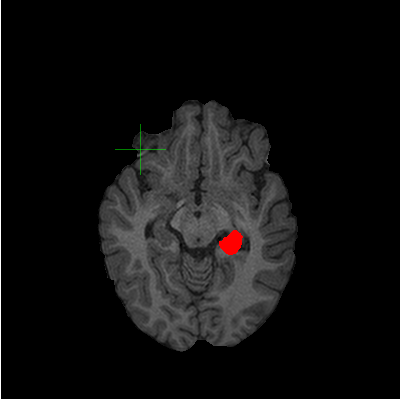
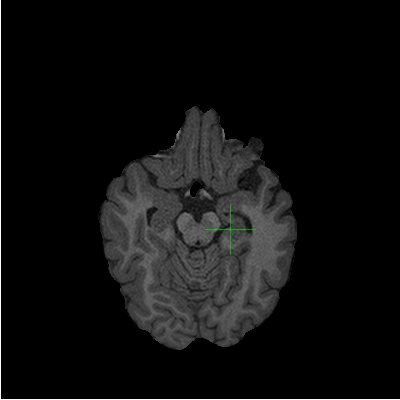
v 0.5 - fslroi, dimswap, decompress, png_gen

Changed region(s): [[0.24, 0.24, 0.75, 0.9], [0.69, 0.69, 0.72, 0.75]]

diff --git a/fslutils.rb b/fslutils.rb
@@ -1,5 +1,11 @@
 #!/usr/bin/env ruby
 
+# Requirements
+require "nifti"
+require "hoe"
+require "inline"
+require 'png'
+
 # Bring OptionParser into the namespace
 require 'optparse'
 options = {}
@@ -20,31 +26,171 @@ puts options.inspect
 
 coord = `fslstats -t #{options[:stats]} -C`.split
 
-basename_brain = File.basename(options[:brain], '.nii.gz')
-basename_stats = File.basename(options[:stats], '.nii.gz')
-dirname = File.dirname(options[:brain])
+
 lh = {}
 rh = {}
 axis = ["x", "y", "z"]
 
 (0..2).each do |i|
-  lh[axis[i]] = coord[i]
+  lh[axis[i]] = coord[i].to_i.round
 end
 
 (3..5).each do |i|
-  rh[axis[i-3]] = coord[i]
+  rh[axis[i-3]] = coord[i].to_i.round
 end
 
-`fslroi #{options[:brain]} #{dirname}/#{basename_brain}_lh_ax 0 -1 0 -1 #{lh['z']} 1`
-`fslroi #{options[:stats]} #{dirname}/#{basename_stats}_lh_ax 0 -1 0 -1 #{lh['z']} 1`
-`fslroi #{options[:brain]} #{dirname}/#{basename_brain}_lh_sg #{lh['x']} 1 0 -1 0 -1`
-`fslroi #{options[:stats]} #{dirname}/#{basename_stats}_lh_sg #{lh['x']} 1 0 -1 0 -1`
-`fslroi #{options[:brain]} #{dirname}/#{basename_brain}_lh_cor 0 -1 #{lh['y']} 1 0 -1`
-`fslroi #{options[:stats]} #{dirname}/#{basename_stats}_lh_cor 0 -1 #{lh['y']} 1 0 -1`
+puts lh.inspect
 
+def fsl_roi(file, structure, x, y, z)
+  basename = File.basename(file, '.nii.gz')
+  dirname = File.dirname(file)
+  filenames = {}
+  filenames[:ax] = fn(dirname, basename, structure, 'axial')
+  filenames[:sag] = fn(dirname, basename, structure, 'sag')
+  filenames[:cor] = fn(dirname, basename, structure, 'cor')
+  `fslroi #{file} #{filenames[:sag]} #{x} 1 0 -1 0 -1`
+  `fslswapdim #{filenames[:sag]} y z x #{filenames[:sag]}`
+  
+  `fslroi #{file} #{filenames[:cor]} 0 -1 #{y} 1 0 -1`
+  `fslswapdim #{filenames[:cor]} x z y #{filenames[:cor]}`
+  
+  `fslroi #{file} #{filenames[:ax]} 0 -1 0 -1 #{z} 1`
+  return filenames
+end
 
+def fn(dirname, basename, structure, orientation)
+  file_name = dirname+'/'+basename+'_'+structure+'_'+orientation+'.nii.gz'
+  return file_name
+end
+
+filenames_brain_lh = fsl_roi(options[:brain], 'lh', lh['x'], lh['y'], lh['z'])
+filenames_stats_lh = fsl_roi(options[:stats], 'lh', lh['x'], lh['y'], lh['z'])
 
 
 #cmd = `du -sh #{brain_file}`
 #system(cmd)
 
+#-----------From nifti_tests------------------
+CursorColor = PNG::Color::Green
+SegColor = PNG::Color::Red
+
+# Get indices from nifti files
+class NArray
+  # returns all the indices to access the values of the NArray.  if start == 1,
+  # then the first dimension (row) values are not returned, if start == 2,
+  # then the first two dimensions are skipped.
+  #
+  # if a block is provided, the indices are yielded one at a time
+  # [obviously, this could be made into a fast while loop instead of
+  # recursive ... someone have at it]
+  def indices(start=0, ar_of_indices=[], final=[], level=shape.size-1, &block)
+    if level >= 0
+      (1...(shape[level])).each do |s|
+        new_indices = ar_of_indices.dup
+        new_indices.unshift(s)
+        if (new_indices.size == (shape.size - start))
+          block.call(new_indices)
+          final << new_indices 
+        end
+        indices(start, new_indices, final, level-1, &block)
+      end
+    end
+    final
+  end
+end
+
+def read_file(orientation,layer,filepath)
+  h = {"orientation" => orientation, "data" => {"brain" => {},"stats" => {} }}
+  nobj = NIFTI::NObject.new(filepath, :narray => true)
+  # Get image dimensions
+      width = nobj.header["dim"][1]
+      height = nobj.header["dim"][2] 
+  # Get image
+  nobj_img = nobj.image  
+  # Fill hash
+  h["data"][layer]["image_data"] = nobj_img
+  h["data"][layer]["dims"] = [width,height]
+  return h
+end
+
+def create_canvas(hash)
+  width = hash["data"]["brain"]["dims"][0]
+  height = hash["data"]["brain"]["dims"][1]
+  # Create canvas
+  canvas = PNG::Canvas.new(width, height)
+end
+
+def fill_canvas(brain_hash,stats_hash,canvas)
+  # Load brain pixel intensities to canvas
+  brainimg = brain_hash["data"]["brain"]["image_data"]
+  statsimg = stats_hash["data"]["stats"]["image_data"]
+  brainimg.indices do |n,m|
+    val=(brainimg[n,m])
+    canvas[n,m] = PNG::Color.new(val,val,val)
+  end
+  statsimg.indices do |n,m|
+    val=(statsimg[n,m])
+    canvas[n,m] = SegColor if val != 0
+  end
+  return canvas
+end
+
+def fill_crosshair(center=[200,200],size=50,canvas)
+  arm = (size/2).floor.to_i
+  xstart = center[0]-arm
+  xend = center[0]+arm
+  ystart = center[1]-arm
+  yend = center[1]+arm
+  canvas.line xstart, center[1], xend, center[1], CursorColor # Horizontal
+  canvas.line center[0], ystart, center[0], yend, CursorColor # Vertical
+  return canvas
+end
+
+def generate_png(brain_hash,stats_hash, crosshair_center, crosshair_size)
+  # Create canvas
+  canvas = create_canvas(brain_hash)
+  # Fill canvas
+  comp_canvas = fill_canvas(brain_hash,stats_hash,canvas)
+  # Fill cursor
+  cursor_comp_canvas = fill_crosshair(crosshair_center,crosshair_size, comp_canvas)
+
+  # Create PNG
+  png = PNG.new cursor_comp_canvas
+  filename = brain_hash["orientation"] + ".png"
+  png.save filename
+end
+############## END METHODS ###############
+
+# Read files :
+def decompress(filename)
+  basename = File.basename(filename, '.nii.gz')
+  dirname = File.dirname(filename)
+  `gzip -d #{filename}`
+  filename_d = dirname+'/'+basename+'.nii'
+  return filename_d
+end
+
+def image_gen(brain_slice, stats_slice, coordinates, orientation)
+  brain_slice_d = decompress(brain_slice)
+  stats_slice_d = decompress(stats_slice)
+  crosshair_size = 50
+  brain_hash = read_file(orientation,"brain",brain_slice_d)
+  stats_hash = read_file(orientation,"stats",stats_slice_d)
+  if orientation == 'axial'
+      hipocenter = [coordinates["x"],coordinates["y"]] 
+  elsif orientation == 'coronal'
+      hipocenter = [coordinates["x"],coordinates["z"]]
+  elsif orientation == 'sagital'
+      hipocenter = [coordinates["y"],coordinates["z"]]
+  end
+  puts hipocenter.inspect
+  # Create PNG
+  generate_png(brain_hash,stats_hash, hipocenter, crosshair_size)
+end
+
+#Axial
+image_gen(filenames_brain_lh[:ax], filenames_stats_lh[:ax], lh, 'axial')
+#Sagital
+image_gen(filenames_brain_lh[:sag], filenames_stats_lh[:sag], lh, 'sagital')
+#Coronal
+image_gen(filenames_brain_lh[:cor], filenames_stats_lh[:cor], lh, 'coronal')
